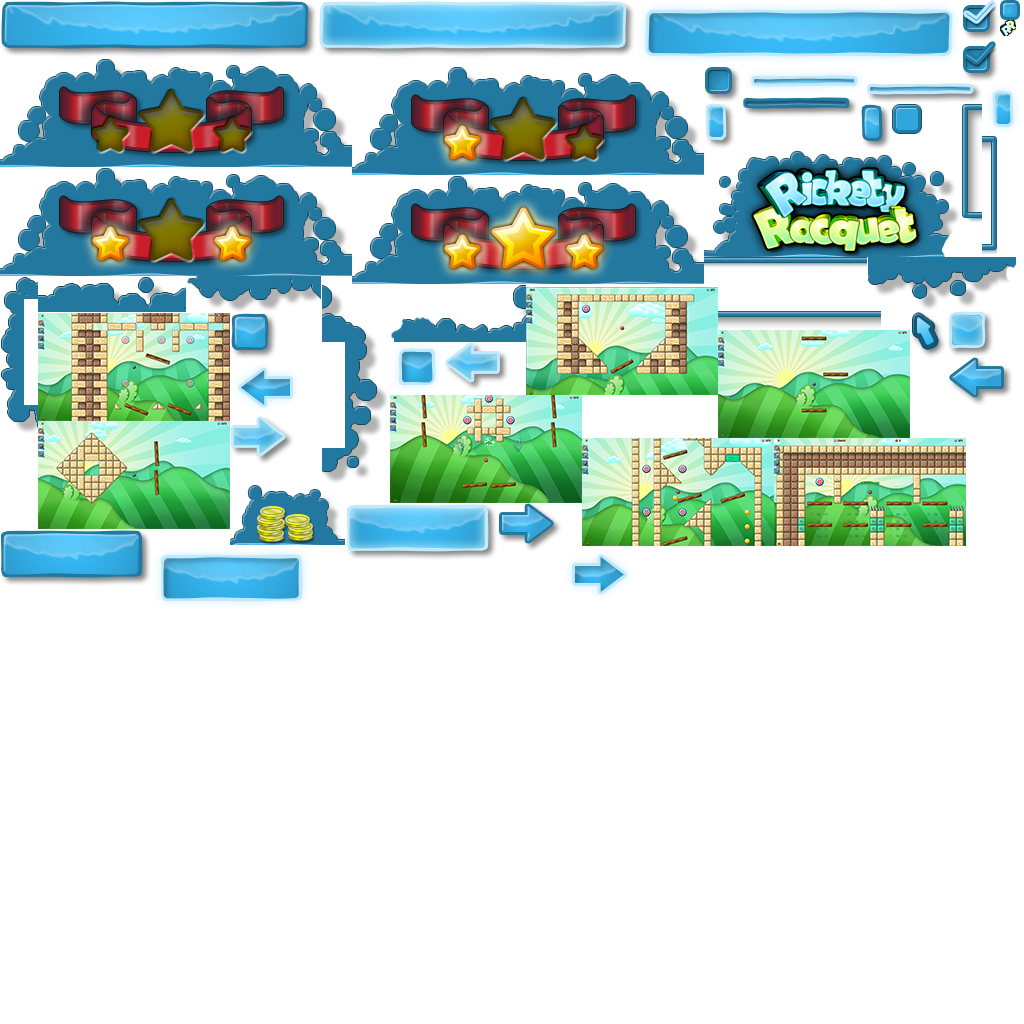
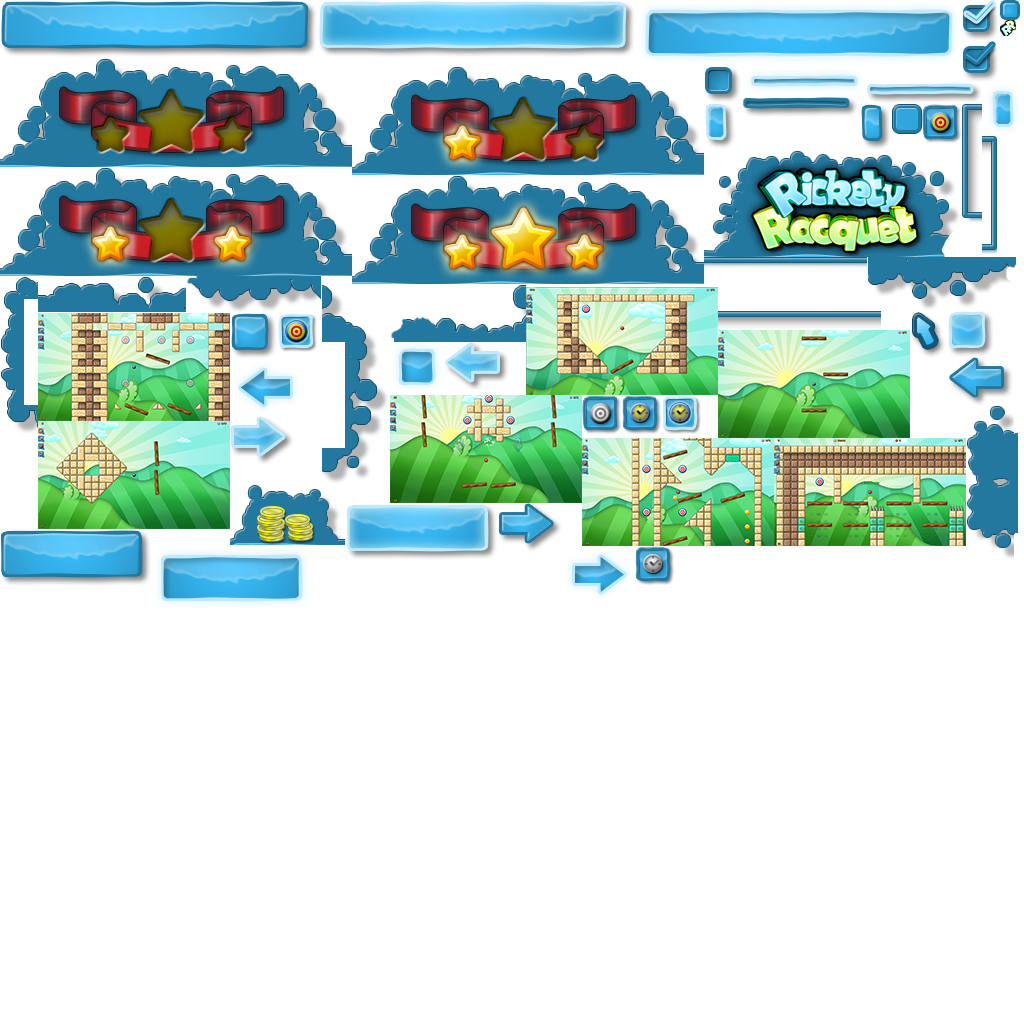
[222] activating time attack mode

diff --git a/Source/FirstParty/AllInOneSolution/AllInOneSolution/Core/resources/MenuLoader.cpp b/Source/FirstParty/AllInOneSolution/AllInOneSolution/Core/resources/MenuLoader.cpp
@@ -38,7 +38,7 @@ MenuTemplate* MenuLoader::loadMenuTemplate(const std::string& path, ResourceMana
     std::unordered_map<std::string, ToolTip> toolTip = parseToolTipStyle(menuXml, resourceManager);
 
     parseButtons(elements, menuXml, buttonStyles, toolTip, resourceManager);
-    parseCheckBoxes(elements, menuXml, checkboxStyles, resourceManager);
+    parseCheckBoxes(elements, menuXml, checkboxStyles, toolTip, resourceManager);
     parseSliders(elements, menuXml, sliderStyles, resourceManager);
     parseLabels(elements, menuXml, resourceManager);
     parseImages(elements, menuXml, toolTip, resourceManager);
@@ -105,7 +105,8 @@ void MenuLoader::parseButtons(
 void MenuLoader::parseCheckBoxes(
     MenuElements& elements, 
     tinyxml2::XMLElement* menuXml, 
-    std::unordered_map<std::string, CheckBoxStyle>& checkBoxStyles, 
+    std::unordered_map<std::string, CheckBoxStyle>& checkBoxStyles,
+    std::unordered_map<std::string, ToolTip>& toolTip,
     ResourceManager& resourceManager)
 {
     if(auto styles = menuXml->FirstChildElement("elements"))
@@ -121,6 +122,15 @@ void MenuLoader::parseCheckBoxes(
             
             checkBox.position = sf::Vector2f(checkboxXml->FloatAttribute("x"), checkboxXml->FloatAttribute("y"));
             checkBox.id = checkboxXml->IntAttribute("id");
+
+            if(auto toolTipName = checkboxXml->Attribute("tooltip"))
+            {
+                auto tooltip = toolTip.find(toolTipName);
+                if(tooltip == end(toolTip))
+                    throw std::runtime_error(utility::replace(utility::translateKey("UnknownToolTip"), checkboxXml->Attribute("tooltip")));
+                checkBox.toolTip = tooltip->second;
+                checkBox.toolTip.setText(utility::translateKey(checkboxXml->Attribute("tooltiptext")));
+            }
 
             elements.checkboxes.push_back(checkBox);
         }
@@ -251,7 +261,7 @@ void MenuLoader::parseSubWindow(MenuTemplate& menu,
             subWindowInfo.size = sf::Vector2f(subXml->FloatAttribute("sizex"), subXml->FloatAttribute("sizey"));
             subWindowInfo.innerHeight = subXml->IntAttribute("innerheight");
             parseButtons(ownElements, subXml, buttonStyles, toolTip, resourceManager);
-            parseCheckBoxes(ownElements, subXml, checkBoxStyles, resourceManager);
+            parseCheckBoxes(ownElements, subXml, checkBoxStyles, toolTip, resourceManager);
             parseSliders(ownElements, subXml, sliderStyles, resourceManager);
             parseLabels(ownElements, subXml, resourceManager);
             parseImages(ownElements, subXml, toolTip, resourceManager);

diff --git a/Source/FirstParty/AllInOneSolution/AllInOneSolution/Core/State/LevelPreviewState.cpp b/Source/FirstParty/AllInOneSolution/AllInOneSolution/Core/State/LevelPreviewState.cpp
@@ -1,6 +1,7 @@
  #include "LevelPreviewState.hpp"
 
 #include "../gui/Button.hpp"
+#include "../gui/CheckBox.hpp"
 #include "../model/Level.hpp"
 #include "../resources/AppConfig.hpp"
 
@@ -27,11 +28,11 @@ void LevelPreviewState::onEnter(const EnterStateInformation* enterInformation, c
     State::onEnter(enterInformation,time);
     m_level = enterInformation->m_level;
     m_menu.setPosition(sf::Vector2f(m_screen.getSize().x / 2.f - m_menu.getSize().x / 2.f, m_screen.getSize().y / 2.f - m_menu.getSize().y / 2.f));
-    m_menu.setLevelInfo(m_level->getLevelName(),
-                        m_level->getRemainigTime(),
-                        m_level->getRemainingBall());
+    m_menu.setLevelInfo(m_level->getLevelName(), m_level->getTotalTime(), m_level->getRemainingBall());
     m_menu.setCoinToolTipText(utility::replace(utility::translateKey("tooltip_coins"), 
                                            utility::toString(m_config.get<int>("coins"))));
+    m_menu.getCheckbox(10).setChecked(false);
+    m_menu.getCheckbox(11).setChecked(true);
 
     m_playStateInfo.m_levelNumber = enterInformation->m_levelNumber;
 }
@@ -47,8 +48,30 @@ StateChangeInformation LevelPreviewState::update(const float time)
     m_menu.registerOnClick([&](const Button& sender){ clicked = sender.getId(); });
     m_menu.update(m_screen);
 
+    if(m_level->isTimeAttackMode())
+    {
+        if(m_menu.getCheckbox(11).getChecked())
+        {
+            m_level->setTimeAttackMode(false);
+            m_menu.getCheckbox(10).setChecked(false);
+        }
+        else
+            m_menu.getCheckbox(10).setChecked(true);
+    }
+    else
+    {
+        if(m_menu.getCheckbox(10).getChecked())
+        {
+            m_level->setTimeAttackMode(true);
+            m_menu.getCheckbox(11).setChecked(false);
+        }
+        else
+            m_menu.getCheckbox(11).setChecked(true);
+    }
+    m_menu.setLevelInfo(m_level->getLevelName(), m_level->getTotalTime(), m_level->getRemainingBall());
     if(clicked == LevelPreviewMenu::BUTTON_START)
     {
+        m_level->setTimeAttackMode(m_menu.getCheckbox(10).getChecked());
         m_playStateInfo.m_prepareOnly = false;
         m_playStateInfo.m_returnFromPause = false;
         m_playStateInfo.m_level = m_level;

diff --git a/Source/FirstParty/AllInOneSolution/AllInOneSolution/Core/gui/CheckBox.cpp b/Source/FirstParty/AllInOneSolution/AllInOneSolution/Core/gui/CheckBox.cpp
@@ -18,21 +18,24 @@ void CheckBox::update(const sf::RenderWindow& screen, const sf::Vector2i& mouseO
                              static_cast<int>(position.y + offset.y + m_style.mouseRect.top),
                              m_style.mouseRect.width,
                              m_style.mouseRect.height);
-    if(utility::Mouse.leftButtonReleased())
+    
+    sf::Vector2i mouseposition = sf::Mouse::getPosition(screen);
+    if(checkboxRect.contains(sf::Mouse::getPosition(screen) + mouseOffset))
     {
-        if(checkboxRect.contains(sf::Mouse::getPosition(screen) + mouseOffset) && !m_checked)
-        {
-            m_checked = true;
-            m_sprite = &m_style.checkedStyle.sprite;
-            onPositionChanged();
-        }
-        else if(checkboxRect.contains(sf::Mouse::getPosition(screen) + mouseOffset) && m_checked)
-        {
-            m_checked = false;
+        m_showToolTip = true;
+        m_toolTip.setPosition(static_cast<const sf::Vector2f>(mouseposition));
+        if(!utility::Mouse.leftButtonReleased())
+            return;
+        
+        m_checked = !m_checked;
+        if(!m_checked )
             m_sprite = &m_style.uncheckedStyle.sprite;
-            onPositionChanged();
-        }
+        else
+            m_sprite = &m_style.checkedStyle.sprite;
+        onPositionChanged();
     }
+    else
+        m_showToolTip = false;
 }
 
 void CheckBox::draw(const DrawParameter& params)
@@ -41,6 +44,12 @@ void CheckBox::draw(const DrawParameter& params)
         return;
 
     params.getTarget().draw(*m_sprite);
+}
+
+void CheckBox::drawAdditionalForeground(const DrawParameter& params)
+{
+    if(m_showToolTip && isVisible())
+        m_toolTip.draw(params);
 }
 
 void CheckBox::onPositionChanged()
@@ -70,4 +79,14 @@ void CheckBox::setChecked(bool checked)
         m_sprite = &m_style.uncheckedStyle.sprite;
         onPositionChanged();
     }
+}
+
+void CheckBox::setToolTip(const ToolTip& toolTip)
+{
+    m_toolTip = toolTip;
+}
+
+void CheckBox::setToolTipText(const std::string& text)
+{
+    m_toolTip.setText(text);
 }

diff --git a/Source/FirstParty/AllInOneSolution/AllInOneSolution/Core/model/Level.cpp b/Source/FirstParty/AllInOneSolution/AllInOneSolution/Core/model/Level.cpp
@@ -519,12 +519,17 @@ const bool Level::isLevelPassed() const
     if(m_levelEndingTime < m_lastTime)
         return m_levelPass;
     else
-        return false;
+        return (m_timeAttackMode && m_remainingTime < 0);
 }
 
 const float Level::getRemainigTime() const
 {
     return m_remainingTime;
+}
+
+const float Level::getTotalTime() const
+{
+    return m_totalTime;
 }
 
 const Goody Level::getGoody (const Goody::Type& type) const
@@ -555,19 +560,25 @@ const bool Level::isLevelFailed() const
     bool value = m_remainingBall < 1 && m_remainingBall > -1;
     // don't use the same variable to check - it can cause negative times
     // I had that quite often when debugging or lagging (dragging the window)
-    value |= m_remainingTime < 0 && m_totalTime > -1.f;
+    value |= !m_timeAttackMode && m_remainingTime < 0 && m_totalTime > -1.f;
     return value;
+}
+
+bool Level::isTimeAttackMode() const
+{
+    return m_timeAttackMode;
 }
 
 void Level::setTimeAttackMode(bool timeAttackMode)
 {
     m_timeAttackMode = timeAttackMode;
-
     if(m_timeAttackMode)
     {
         m_remainingTime = 120.f;
         m_totalTime = 120.f;
     }
+    else
+        m_totalTime = -1.f;
 }
 
 void Level::handleAutoRespawn()

diff --git a/Source/FirstParty/AllInOneSolution/AllInOneSolution/Core/gui/CheckBox.hpp b/Source/FirstParty/AllInOneSolution/AllInOneSolution/Core/gui/CheckBox.hpp
@@ -3,8 +3,9 @@
 #ifndef CHECKBOX_HPP
 #define CHECKBOX_HPP
 
-#include "MenuElement.hpp"
 #include "CheckboxStyle.hpp"
+#include "MenuElement.hpp"
+#include "ToolTip.hpp"
 
 #include <SFML/Graphics/Sprite.hpp>
 #include <SFML/Graphics/RenderWindow.hpp>
@@ -17,15 +18,22 @@ public:
 
     virtual void update(const sf::RenderWindow& screen, const sf::Vector2i& mouseOffset = sf::Vector2i(0, 0)) override;
     virtual void draw(const DrawParameter& params) override;
+    virtual void drawAdditionalForeground(const DrawParameter& params) override;
     
     bool getChecked();
     void setChecked(bool checked);
+    
+    void setToolTip(const ToolTip& toolTip);
+    void setToolTipText(const std::string& text);
 
 protected:
     
     virtual void onPositionChanged() override;
 
 private:
+    
+    ToolTip m_toolTip;
+    bool m_showToolTip;
 
     bool m_checked;
     sf::Sprite* m_sprite;

diff --git a/Source/FirstParty/AllInOneSolution/AllInOneSolution/Core/model/Level.hpp b/Source/FirstParty/AllInOneSolution/AllInOneSolution/Core/model/Level.hpp
@@ -74,6 +74,7 @@ public:
     const bool isLevelFailed() const;
 
     const float getRemainigTime() const;
+    const float getTotalTime() const;
 
     const Goody getGoody(const Goody::Type& type) const;
     void onGoodyActivated(Goody& goody);
@@ -85,6 +86,7 @@ public:
     const int getLostBalls() const;
 
     void setTimeAttackMode(bool timeAttackMode);
+    bool isTimeAttackMode() const;
 
     enum Medals {Gold, Silver, Bronze, none};
     const Level::Medals getMedal() const;

diff --git a/Source/FirstParty/AllInOneSolution/AllInOneSolution/Core/resources/MenuLoader.hpp b/Source/FirstParty/AllInOneSolution/AllInOneSolution/Core/resources/MenuLoader.hpp
@@ -37,7 +37,8 @@ private:
     static void parseCheckBoxes(
         MenuElements& elements, 
         tinyxml2::XMLElement* menuXml, 
-        std::unordered_map<std::string, CheckBoxStyle>& checkBoxStyles, 
+        std::unordered_map<std::string, CheckBoxStyle>& checkBoxStyles,
+        std::unordered_map<std::string, ToolTip>& toolTip,
         ResourceManager& resourceManager);
 
     static void parseSliders(

diff --git a/Source/FirstParty/AllInOneSolution/AllInOneSolution/Core/gui/MenuPanel.cpp b/Source/FirstParty/AllInOneSolution/AllInOneSolution/Core/gui/MenuPanel.cpp
@@ -101,6 +101,7 @@ void MenuPanel::createButton(const ButtonInfo& info)
 void MenuPanel::createCheckBox(const CheckBoxInfo& info)
 {
     std::unique_ptr<CheckBox> checkbox(new CheckBox(info.id, info.style, m_position, info.position));
+    checkbox->setToolTip(info.toolTip);
     m_elements.push_back(std::move(checkbox));
 }
 

diff --git a/Source/FirstParty/AllInOneSolution/AllInOneSolution/Core/gui/MenuTemplate.hpp b/Source/FirstParty/AllInOneSolution/AllInOneSolution/Core/gui/MenuTemplate.hpp
@@ -31,6 +31,7 @@ struct CheckBoxInfo
     CheckBoxStyle style;
     sf::Vector2f position;
     int id;
+    ToolTip toolTip;
 };
 
 struct SliderInfo
